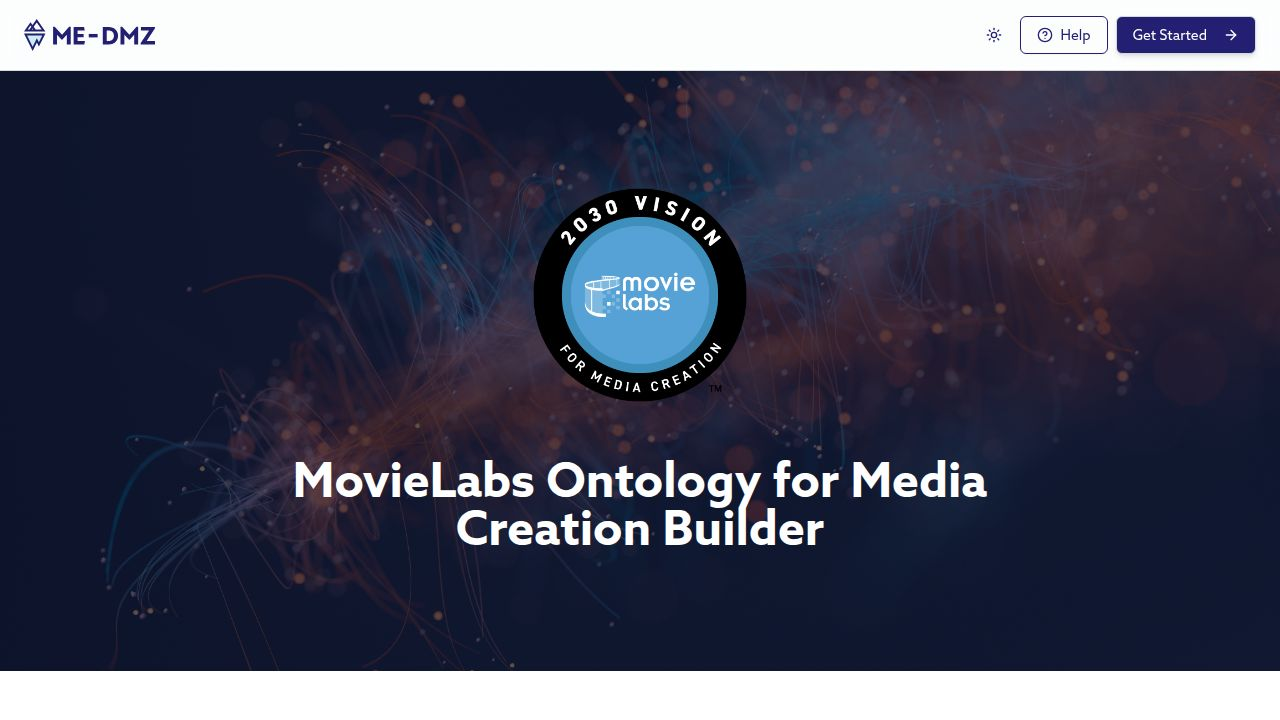
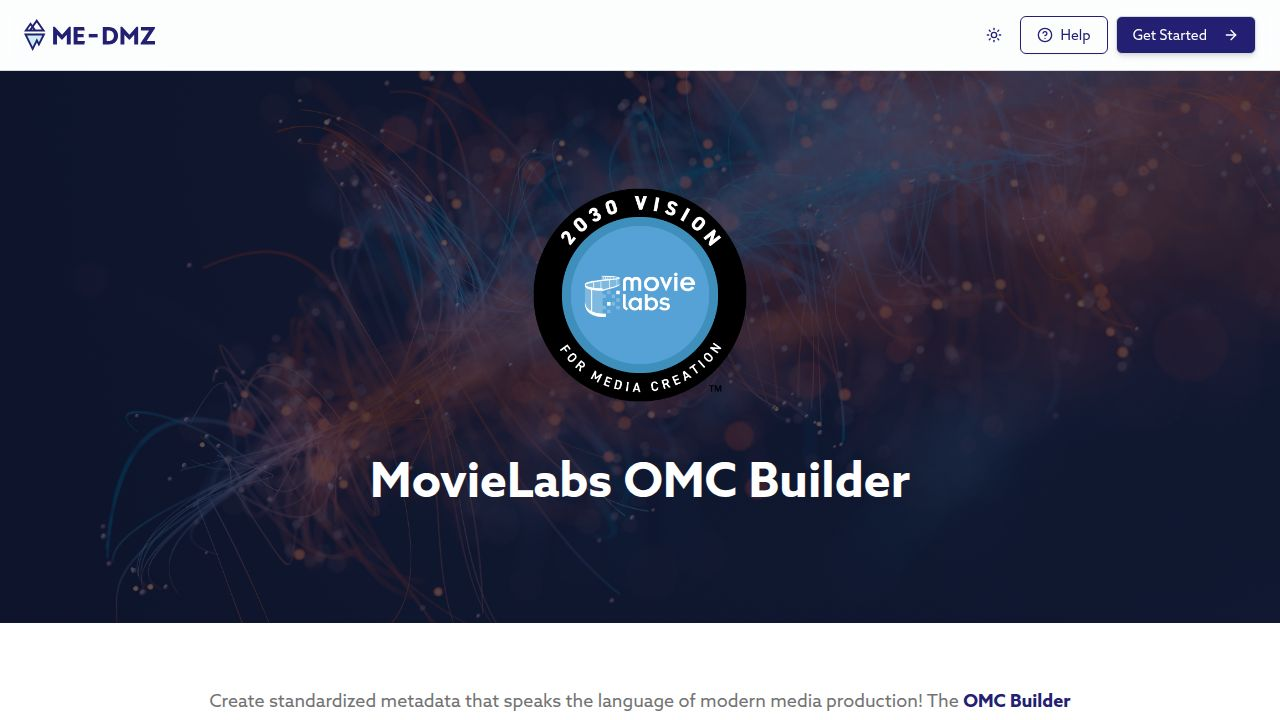
Update application title and headings to "MovieLabs OMC Builder"
Modify client/index.html and client/src/pages/intro.tsx to reflect the new application title and main heading.

Replit-Commit-Author: Agent
Replit-Commit-Session-Id: 105ca36f-9899-496f-a9f7-827586168140
Replit-Commit-Checkpoint-Type: full_checkpoint
Replit-Commit-Event-Id: f8ce984b-0dc9-470c-a1df-55abcd50c6ed
Replit-Commit-Screenshot-Url: https://storage.googleapis.com/screenshot-production-us-central1/b75df675-96bf-4b5e-a76a-4bd8f15d38c2/105ca36f-9899-496f-a9f7-827586168140/QygNs2K
Replit-Helium-Checkpoint-Created: true

diff --git a/client/index.html b/client/index.html
@@ -4,14 +4,14 @@
     <meta charset="UTF-8" />
     <meta name="viewport" content="width=device-width, initial-scale=1.0, maximum-scale=1" />
 
-    <title>MovieLabs Ontology for Media Creation Builder</title>
-    <meta property="og:title" content="MovieLabs Ontology for Media Creation Builder" />
+    <title>MovieLabs OMC Builder</title>
+    <meta property="og:title" content="MovieLabs OMC Builder" />
     <meta property="og:description" content="Create and export MovieLabs Ontology for Media Creation (OMC) compliant JSON documents for media production workflows." />
     <meta property="og:type" content="website" />
     <meta property="og:image" content="https://replit.com/public/images/opengraph.png" />
     <meta name="twitter:card" content="summary_large_image" />
     <meta name="twitter:site" content="@replit" />
-    <meta name="twitter:title" content="MovieLabs Ontology for Media Creation Builder" />
+    <meta name="twitter:title" content="MovieLabs OMC Builder" />
     <meta name="twitter:description" content="Create and export MovieLabs Ontology for Media Creation (OMC) compliant JSON documents for media production workflows." />
     <meta name="twitter:image" content="https://replit.com/public/images/opengraph.png" />
 

diff --git a/client/src/pages/intro.tsx b/client/src/pages/intro.tsx
@@ -123,7 +123,7 @@ export default function Intro() {
                 data-testid="img-movielabs-logo"
               />
               <h1 className="text-4xl md:text-5xl font-bold text-white mb-6">
-                MovieLabs Ontology for Media Creation Builder
+                MovieLabs OMC Builder
               </h1>
             </div>
           </div>
